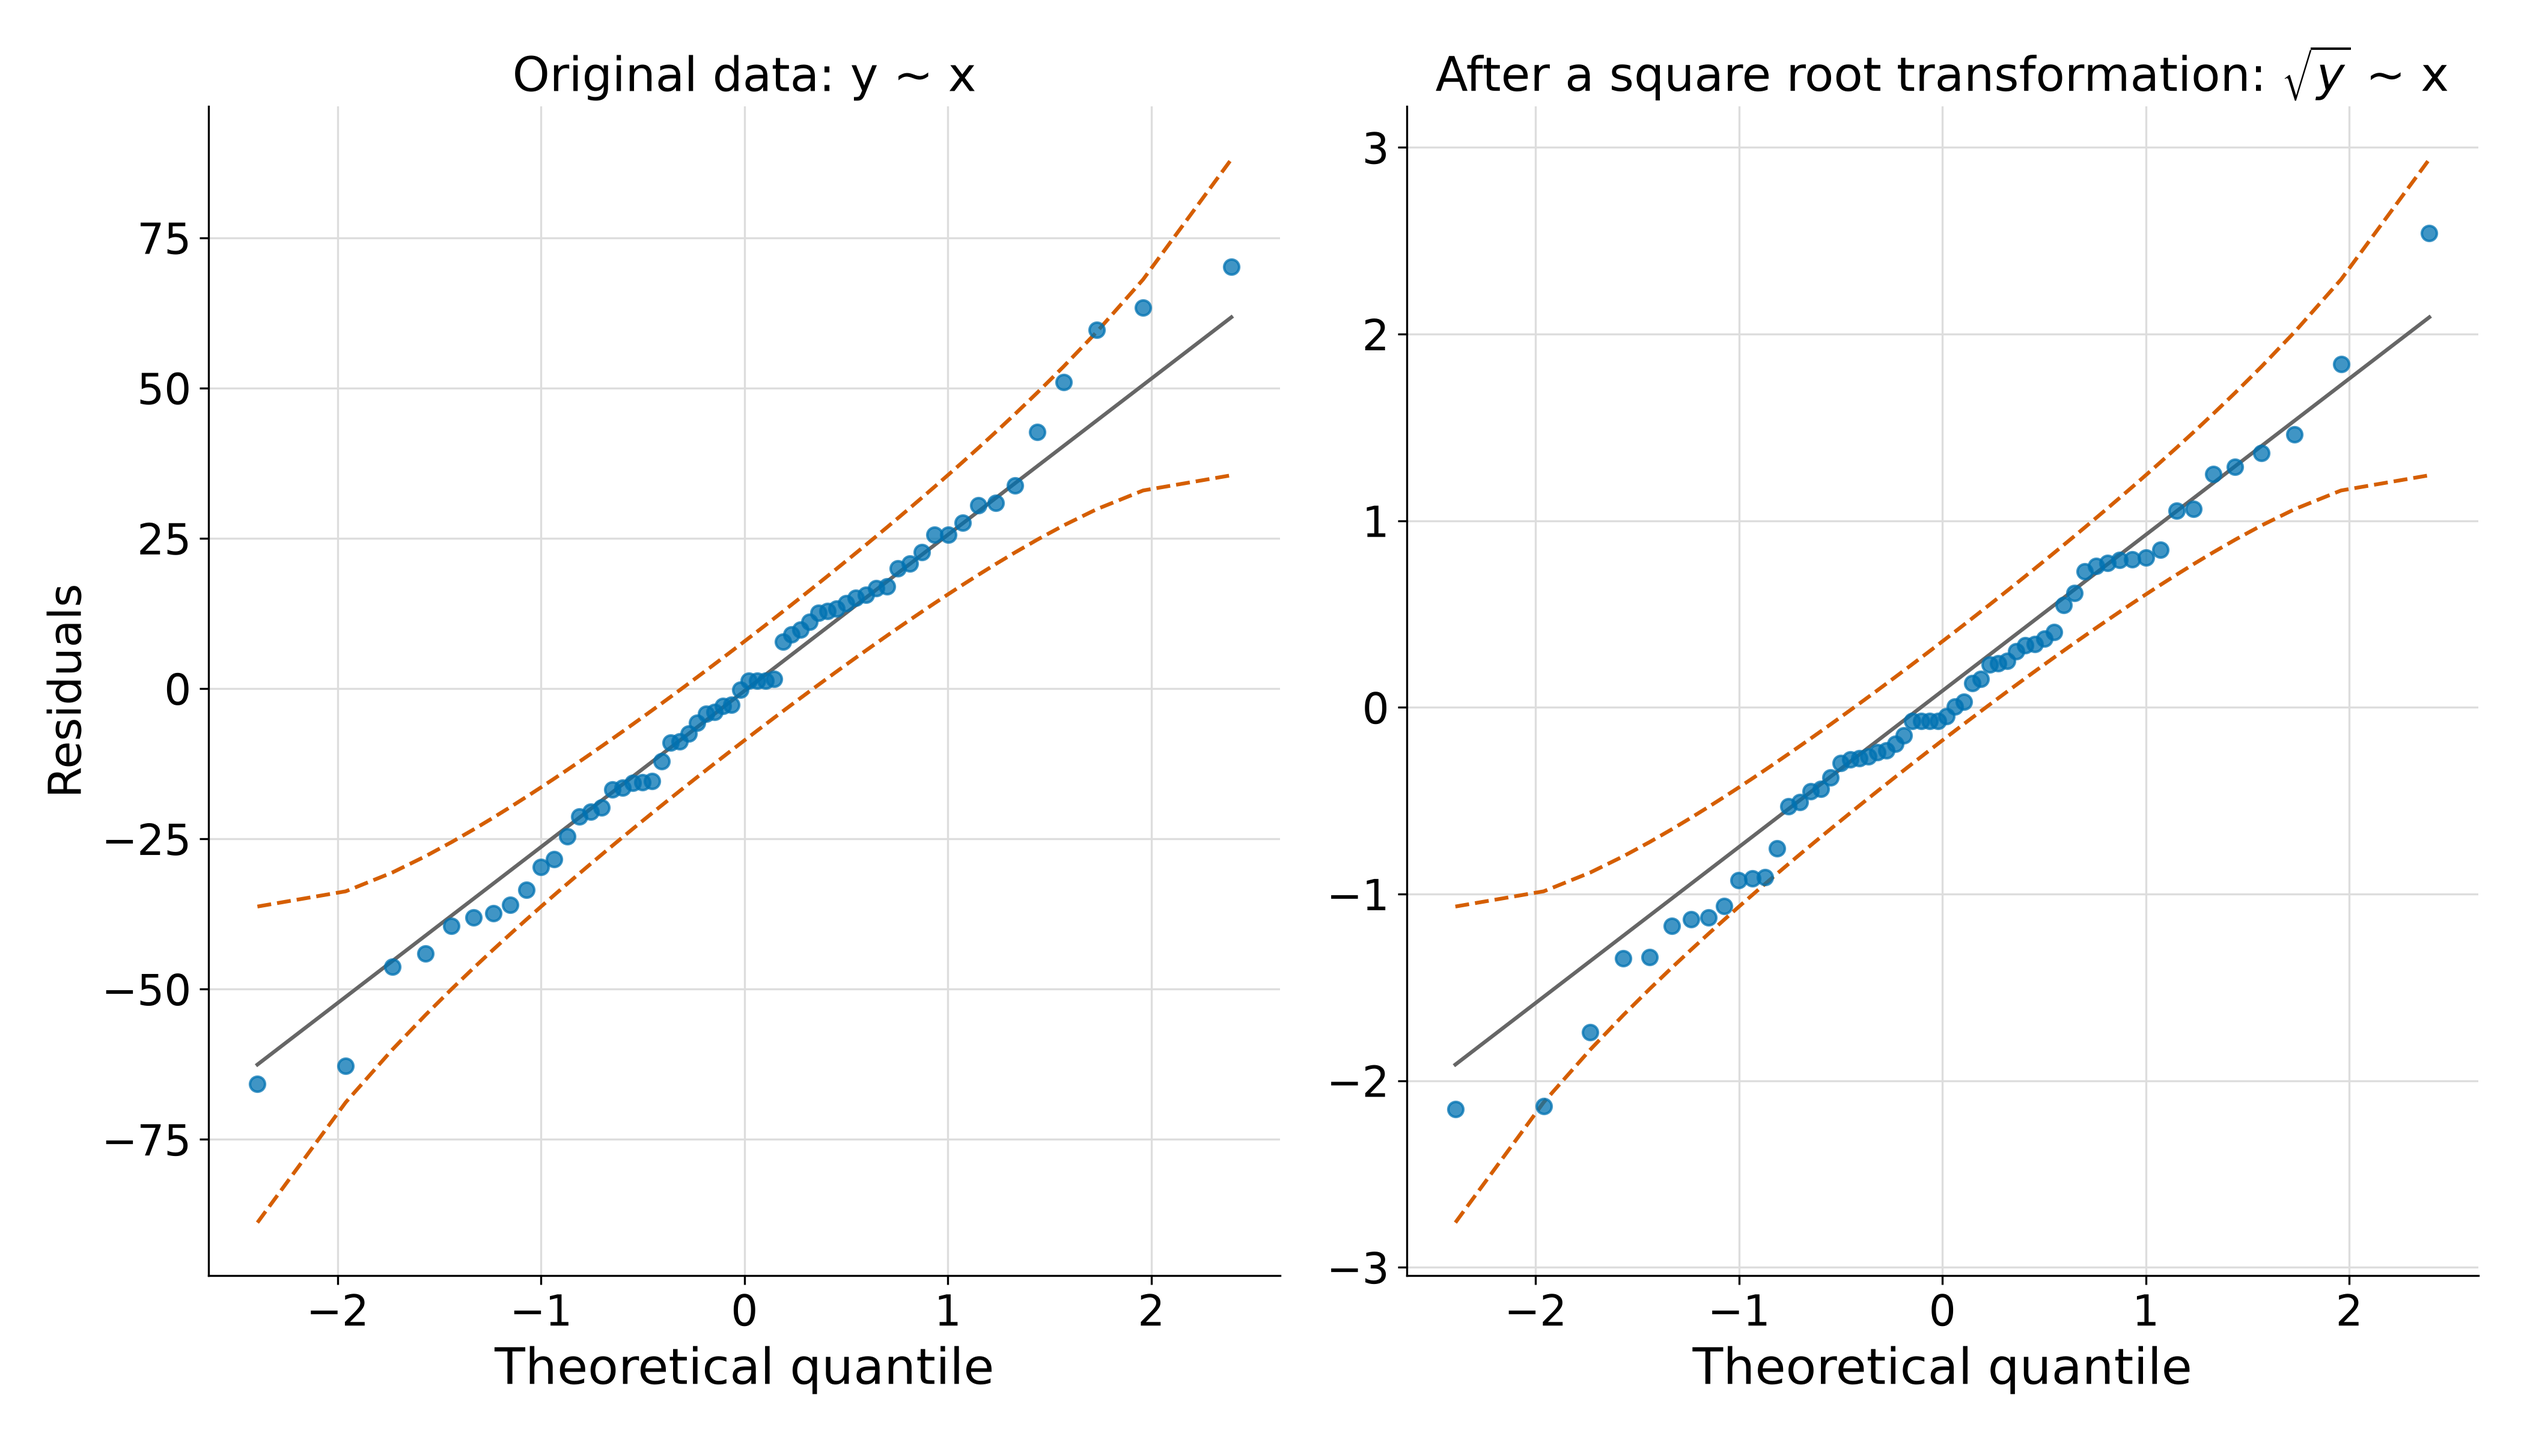
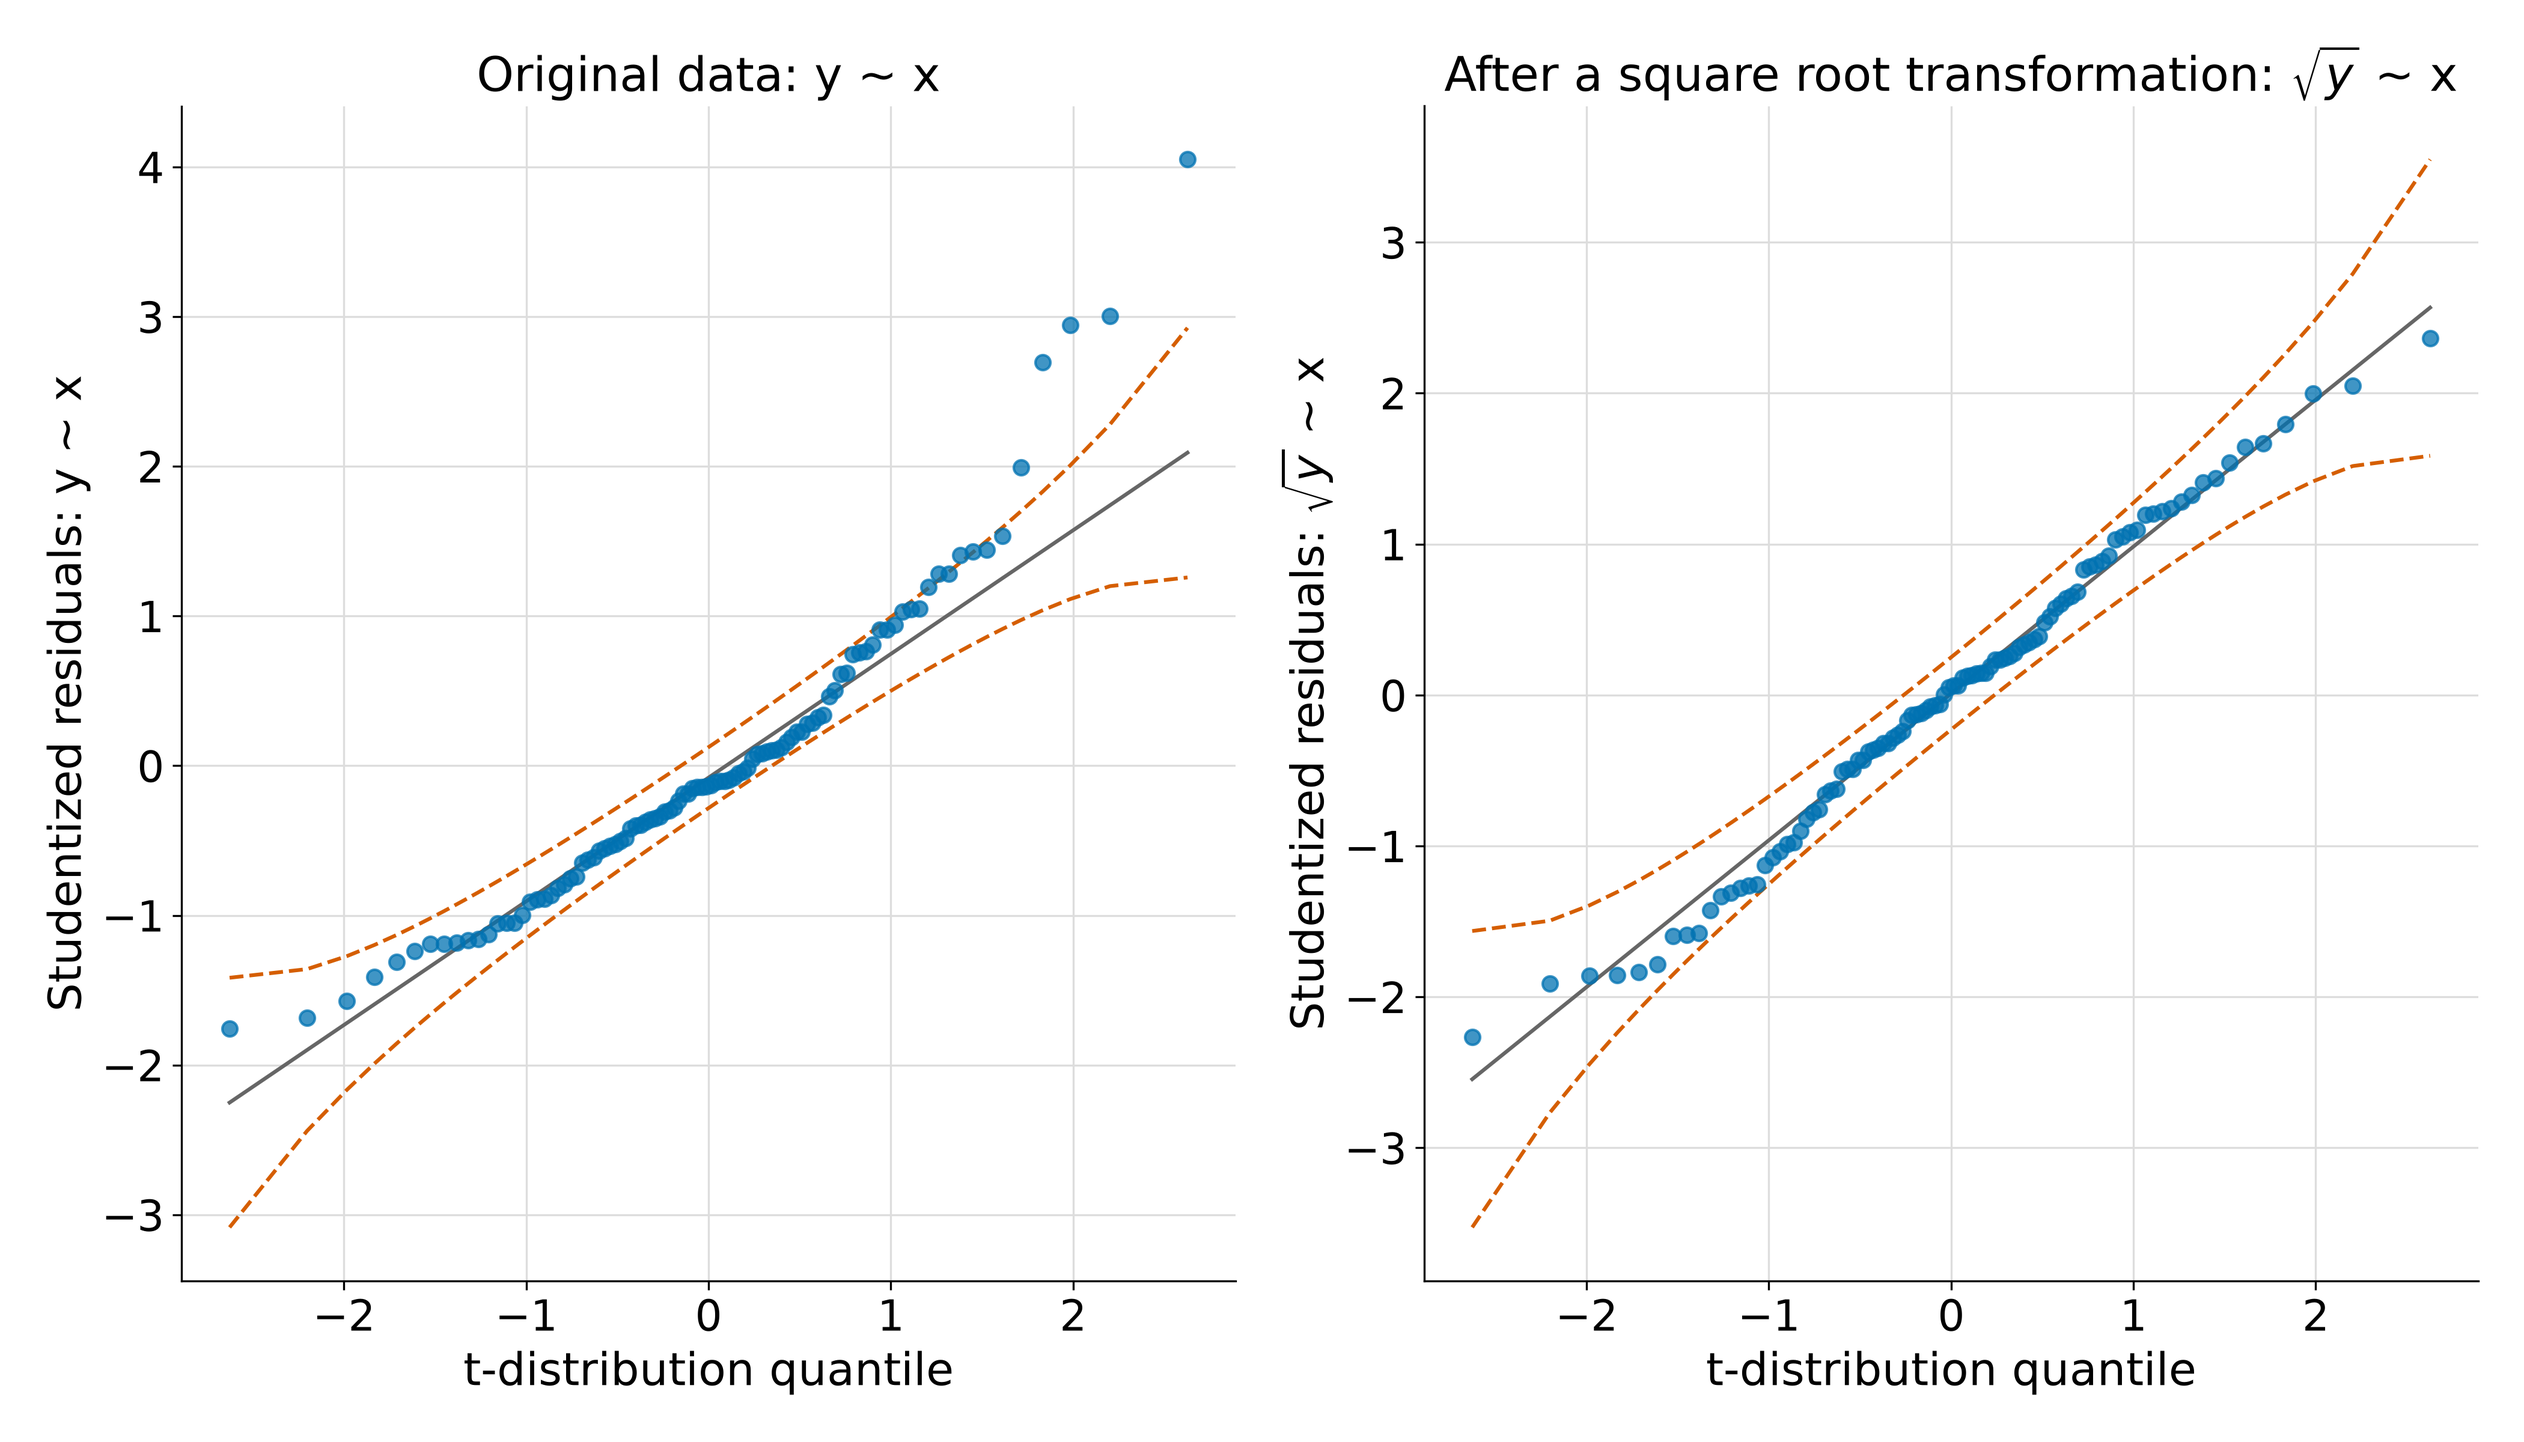
Rebuild the transformation q-q pair on the studentized scale of the original
The original passed the fitted model to car::qq.plot, which plots
externally studentized residuals against t-distribution quantiles, so
both panels sit on the same dimensionless scale (about -2 to +4). The
replacement had plotted raw residuals, whose units differ by a factor
of about thirty between the two panels.

Rebuilt with the original R script's own data recipe (x from a scaled
t-distribution with 6 degrees of freedom, y = (2x + 3/x - noise)^2)
and externally studentized residuals in both panels, against
t-quantiles, with the confidence envelope. The q-q helper now accepts
a reference distribution for this purpose. The left panel's heavy
right tail escapes the envelope; after the square root transformation
the residuals sit inside it, as the chapter prose describes.

Claude-Session: https://claude.ai/code/session_013gbucEbmko1QaQPZDrjLhx

diff --git a/least-squares/regression_diagnostics_figures.py b/least-squares/regression_diagnostics_figures.py
@@ -108,19 +108,21 @@ def _lowess(x, y, frac=0.5, gridsize=60):
     return grid, fitted
 
 
-def _qq_axes(ax, values, title):
-    """A normal q-q plot with the quartile reference line and the 95%
-    pointwise confidence envelope, as R's car::qqPlot draws it."""
+def _qq_axes(ax, values, title, dist=stats.norm):
+    """A q-q plot with the quartile reference line and the 95%
+    pointwise confidence envelope, as R's car::qqPlot draws it.
+    ``dist`` is the reference distribution (normal by default; pass a
+    frozen t-distribution for studentized residuals)."""
     n = len(values)
     P = (np.arange(1, n + 1) - 0.5) / n
-    theo = stats.norm.ppf(P)
+    theo = dist.ppf(P)
     ordered = np.sort(values)
     x25, x75 = np.percentile(theo, [25, 75])
     y25, y75 = np.percentile(ordered, [25, 75])
     slope = (y75 - y25) / (x75 - x25)
     intercept = y25 - slope * x25
     fit = intercept + slope * theo
-    se = (slope / stats.norm.pdf(theo)) * np.sqrt(P * (1 - P) / n)
+    se = (slope / dist.pdf(theo)) * np.sqrt(P * (1 - P) / n)
     zc = stats.norm.ppf(0.975)
     ax.grid(color=GRID, linewidth=0.8)
     ax.plot(theo, fit, color=GREY, linewidth=1.5)
@@ -424,19 +426,36 @@ def non_normal_errors(outdir: pathlib.Path) -> None:
     save(fig, outdir, "non-normal-errors-outliers.png")
 
 
-def transformation_required(outdir: pathlib.Path) -> None:
-    rng = np.random.default_rng(7)
-    n = 60
-    x = rng.normal(7, 1.6, n)
-    y = (2 * x + rng.normal(0, 1.1, n)) ** 2
-    _, _, _, resid_raw = _fit(x, y)
-    _, _, _, resid_sqrt = _fit(x, np.sqrt(y))
+def _studentized(x, y):
+    """Externally studentized residuals of the straight-line fit."""
+    n, k = len(x), 2
+    _, _, _, e = _fit(x, y)
+    h = 1 / n + (x - x.mean()) ** 2 / np.sum((x - x.mean()) ** 2)
+    rss = np.sum(e ** 2)
+    return e * np.sqrt((n - k - 1) / (rss * (1 - h) - e ** 2))
 
+
+def transformation_required(outdir: pathlib.Path) -> None:
+    # Same data recipe as the original R script: x from a scaled
+    # t-distribution, y = (2x + 3/x - noise)^2. As in the original
+    # (car::qq.plot on the model object), both panels show studentized
+    # residuals against t-distribution quantiles, so the two are on
+    # the same dimensionless scale.
+    rng = np.random.default_rng(7)
+    n = 100
+    x = stats.t.rvs(df=6, size=n, random_state=rng) * 2 + 7
+    base = 2 * x + 3 / x - rng.normal(0, 8, n)
+    y = base ** 2
+
+    tdist = stats.t(df=n - 3)
     fig, axes = plt.subplots(1, 2, figsize=(14, 8))
-    _qq_axes(axes[0], resid_raw, "Original data: y ~ x")
-    _qq_axes(axes[1], resid_sqrt,
-             r"After a square root transformation: $\sqrt{y}$ ~ x")
-    axes[0].set_ylabel("Residuals", fontsize=18)
+    _qq_axes(axes[0], _studentized(x, y), "Original data: y ~ x", dist=tdist)
+    _qq_axes(axes[1], _studentized(x, np.sqrt(y)),
+             r"After a square root transformation: $\sqrt{y}$ ~ x", dist=tdist)
+    axes[0].set_ylabel("Studentized residuals: y ~ x", fontsize=18)
+    axes[1].set_ylabel(r"Studentized residuals: $\sqrt{y}$ ~ x", fontsize=18)
+    for ax in axes:
+        ax.set_xlabel("t-distribution quantile", fontsize=18)
     save(fig, outdir, "non-normal-errors-transformation-required.png")
 
 
